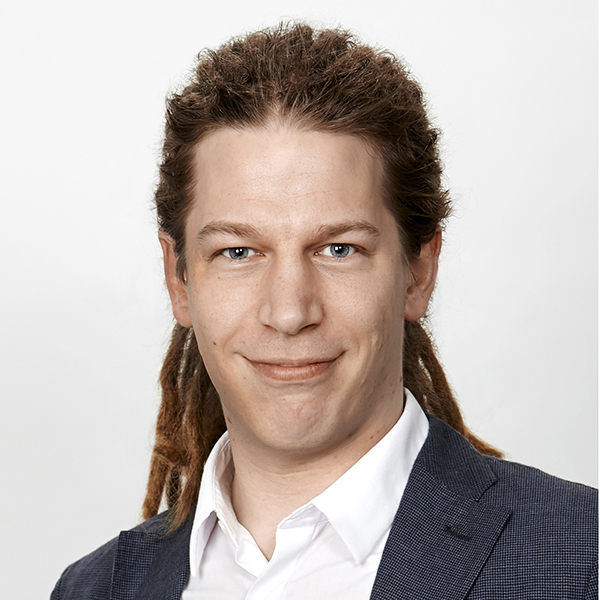
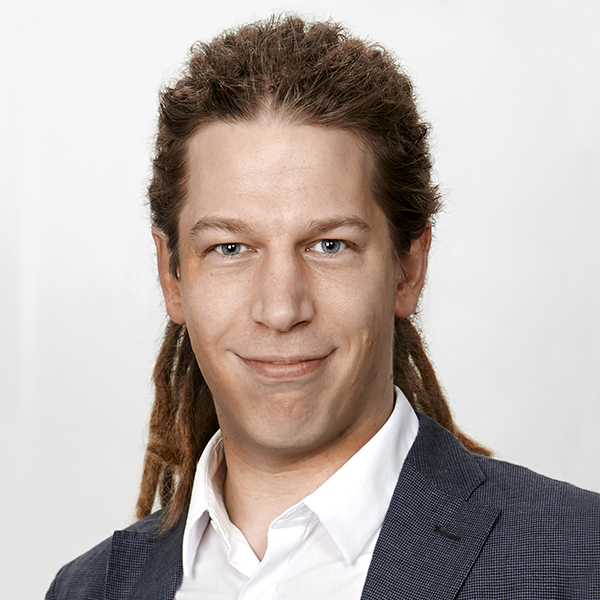
overhaul of index and research section. fixed broken links to GSC, updated profile picture, updated CV.

diff --git a/research.html b/research.html
@@ -85,45 +85,63 @@
 
         <div class="row">
 	        
-
+		
+				<br/>
+				<br/>
             <div class="col-xs-12 col-sm-12 col-md-12 col-lg-12 text-left">		
 		        <h4>Trail clearing behaviour in <em>Atta </em>leaf-cutter ants</h4>
 			
 			<p>
 				
 			        <img class="inline-image" src="img/attatrails.jpg" />
-			        Leaf-cutter ants, unlike most other ant species, construct cleared foraging trails: they remove all undergrowth and flatten the underlying soil. While this requires a considerable amount of time and energetic investment, workers gain increased movement and resource transport speed. 
+			        Leaf-cutter ants, unlike most other ant species, construct cleared foraging trails: they remove all undergrowth and flatten the underlying soil.
+                    Much like on human roads, movement on such trails is significantly faster. 
+				<br/>
+				<br/>
+                The resulting trail networks span several kilometers, and many kilograms of leaf litter are removed off the trails. The construction of these trails takes approximately 11,000 ant-hours worth of work.
+                Considering the enormous dimensions of their trails and the high associated costs, is the benefit of having these trails really worth the effort? It turns out, it is:
+                by combining ecological and physiological data into a computational model, we showed that trails <a target="_blank" href="https://link.springer.com/article/10.1007%2Fs00265-016-2237-5">provide energetic benefits</a>. 
+                We further investigated what part of the colony should contribute to the construction process to ensure that the costs do not outweigh the benefits, and what other aspects might influence the cost/benefit balance. 
+				<br/>
+				<br/>
+                Many thousand ants collaborate in the construction process. 
+                Comparable large-scale collective behaviour is often controlled via the deposition of information in the environment (i.e., stigmergy):
+                for example, ants use pheromone trails to recruit workers to food locations.
+                But if such processes are involved in the trail construction, or what other mechanisms might control the building behaviour, is unknown. 
+                To investigate the underlying mechanism we conducted experiments in which we triggered trail clearing behaviour. 
+                We extracted behavioural data from the experiment recordings using machine learning and image processing techniques.
+                With this data we constructed a model that makes assumptions about the behaviour of individual ants and tests how well different model assumptions recreate the behaviour we see in our experiments. 
+                It turns out that no information transfer is required to control the many individuals that build the trails.
+                However, we find that there is a previously unknown regulatory mechanism involved. 
+                The publication of our findings is pending, and more will be written here once the publication has been accepted.
+                <br/>
+				<br/>
+				I recently had a chat with ABC Science Show's host Robyn Williams about the leaf-cutter highways, which you can <a target="_blank" href="http://www.abc.net.au/radionational/programs/scienceshow/leaf-cutter-ants-–-the-ultimate-egalitarian-workforce/8731090">find here</a>. 
+                <br/>
+		        <br/>
 				
-			        <br/><br/>
-				In the field, some trails remain uncleared. How is the decision for trail clearing made? What individual behaviour leads to the colony-level phenomenon of cleared trails?
-				<br/><br/>
-				In my PhD project, I investigated the energetics, control mechanism, and evolutionary trajectory of the trail clearing behaviour.
-
-				I used image processing and recognition methods to extract data from experiment recordings, and built systemic and agent-based models of the trail clearing behaviour.
-				<br/>
-				One already published finding is that these trails can indeed <a target="_blank" href="https://link.springer.com/article/10.1007%2Fs00265-016-2237-5">provide energetic benefits</a> and therefore increase a clearing colony's fitness, but that this is dependent on size of clearing workforce and levels of obstruction in the environment.
-				<br/>
-				More content to follow as results are published. For some additional coverage visit <a target="_blank" href="http://www.infotech.monash.edu.au/about/news/archive/2014/stri-tom-bochynek.html"> Monash Faculty of Information Technology</a>. 
-
-				<br/>				<br/>
 
 				</p>
-            </div><!-- /.col-md-10 --><!-- /.container -->
+                </div><!-- /.col-md-10 --><!-- /.container -->
 
-			<div class="col-xs-12 col-sm-12 col-md-12 col-lg-12 text-left">
+	    		<div class="col-xs-12 col-sm-12 col-md-12 col-lg-12 text-left">
 
                 <h4>Collective nest construction and chain formation in the weaver ant <em>Oecophylla smaragdina</em></h4>
                 <p>
 	                <img class="inline-image" src="img/oecophylla-2.jpg" />
-	                Weaver ants are an arboreal ant species living in nests made up from living leaves. Construction of these nests requires the coordinated effort of a large workforce, to fold and then weave leaves into shape.
+	                Weaver ants are an arboreal ant species living in nests made up from living leaves. 
+                    Construction of these nests requires the coordinated effort of a large workforce to fold and then (using the silk of their larvae) weave leaves into the desired shape. 
+                    During the folding process ants assemble into pulling chains that allow them to focus the force of many ants on a single point on the leaf perimeter.
 	                <br/><br/>
-	                Without a blueprint, knowledge of the entire environment, or sophisticated communication, how do individuals collectively make a decision for a new nest site? And what are the dynamics of leaf folding?
-			<br/><br/>
-	                We find that shape and flexibility are the key criteria for the selection of a suitable nest substrate. Workers persist longer in attempts to roll tips of leaves, and a larger workforce aggregates there over time.
-
+                    How do individual ants select a single leaf in a tree canopy from which they start the nest construction? 
+                    And how do additional workers decide to join in the effort, and to form pulling chains? 
+		        	<br/><br/>
+	                In laboratory experiments we gave ants artificial leaves made from paper, and observed how ant colonies used them to construct simple nests.
+                    We find that shape and flexibility are the key criteria for the selection of a suitable nest substrate: sturdier leaves are not used for construction, but softer leaves are; on those, the flexible tip is preferentially chosen by the first pulling ant.
+                    Subsequent ants will join in with the first, but are more likely to leave the chains if the pulling effort makes no progress.
 	                <br/><br/>
-	                Results of my Master's thesis are <a target="_blank" href="http://journals.plos.org/plosone/article?id=10.1371/journal.pone.0095112"> published here</a>; a video illustrating nest construction dynamics can be
-            found <a target="_blank" href="http://figshare.com/articles/Physical_and_Biological_Determinants_of_Collective_Behavioural_Dynamics_in_Complex_Systems_Pulling_Chain_Formation_in_the_Nest_Weaving_Ant_Oecophylla_smaragdina_/1005746">here</a>.
+	                Results of this research are <a target="_blank" href="http://journals.plos.org/plosone/article?id=10.1371/journal.pone.0095112"> published here</a>; a video illustrating nest construction dynamics can be
+            <a target="_blank" href="http://figshare.com/articles/Physical_and_Biological_Determinants_of_Collective_Behavioural_Dynamics_in_Complex_Systems_Pulling_Chain_Formation_in_the_Nest_Weaving_Ant_Oecophylla_smaragdina_/1005746">found here</a>.
                 </p>
                 
             

diff --git a/index.html b/index.html
@@ -73,6 +73,8 @@
     	<div class="row">
 	    <div class="col-xs-3 col-sm-3 col-md-3 col-lg-3 center top-spacing bottom-spacing">		     		        		        
 
+                    <br/>
+                    <br/>
 	            <img class="img-circle" height="auto" src="img/profile2square.jpg" width="100%">
 
 	    </div>			
@@ -82,10 +84,29 @@
             <div class="col-xs-12 col-sm-12 col-md-12 col-lg-12 text-left">		
 		        <p>
 
-			    	I am a computational biologist interested in understanding complex biological systems via experiments and the modeling of biological and evolutionary processes. In particular I am interested in the behaviour of groups, either in biology (particularly in the social insects) or in robots.  
+                    <br/>
+                    <br/>
+                    I am a computational biologist interested in understanding complex systems.
+                    Such systems consist of many indivdual elements, but as a group show a level of complexity that is "larger than the sum of their parts". 
+                    
+                    <br/>
+                    <br/>
+                    In the biological domain, social insects are one of the most impressive examples of such complex systems, but my research interest extend to the field of swarm robotics in which some of the biological concepts are applied. 
+                    In particular, I am interested in self-assembly into functional structures and the collective construction of structures and transport infrastructure.
+
+                    <br/>
+                    <br/>
+                    The toolkit I draw from to answer these questions comprises image processing, machine learning, evolutionary simulations, agent-based and system-level models, and information theory methods.
+
+                    <br/>
+                    <br/>
+            
+
+			    	<!--I am a computational biologist interested in understanding complex biological systems via experiments and the modeling of biological and evolutionary processes. In particular I am interested in the behaviour of groups, either in biology (particularly in the social insects) or in robots.  
                     <p> 
                     Currently I am a postdoctoral researcher at Northwestern University's McCormick School of Engineering, where I investigate biological behaviour as a model for swarm robotics.
                     During previous research, I investigated collective construction of infrastructure in leafcutter ants (which form the largest transport networks in nature) and the self-assembly of weaver ants into pulling chains during their nest construction.
+                    -->
 
                     <!--and their interplay with ecology and evolution. I recently completed my PhD with Prof. Bernd Meyer and A/Prof. Martin Burd at the Monash University Faculty of Information Technology and CSIRO|Data61. In my PhD project I combined biological experiments, automated data extraction and analysis, and modelling of behavioural and evolutionary dynamics.
                  
@@ -95,7 +116,7 @@
 				    <br><br>
   --!>
 
-                    For more information on my work, visit the <a href="research.html">Research</a> section.
+                    For information on my already published work, please visit the <a href="research.html">Research</a> section.
 
 				</p>
             </div><!-- /.col-md-10 --><!-- /.container -->

diff --git a/publications.html b/publications.html
@@ -79,11 +79,11 @@
             <div class="col-xs-12 col-sm-12 col-md-12 col-lg-12 text-left">		
 		        <p>		        
 				<br>
-				For an up-to-date list of journal articles, please visit <a target="_blank" href="https://scholar.google.com/citations?user=1_ZYCNgAAAAJ&hl=en&oi=ao">Google Scholar</a>.
+				For an up-to-date list of journal articles, please visit <a target="_blank" href="https://scholar.google.com.au/citations?user=zWxV6LMAAAAJ&hl=en">Google Scholar</a>.
 				
 				<div style="float: left; width: 100%;">
 					<ol>
-					<li><b>Bochynek, T.</b>, Tanner, J., Meyer, B., and Burd, M. (in press) - Parallel foraging cycles for different resources in leaf-cutting ants: a clue to the mechanisms of rhythmic activity. Ecological Entomology</li>
+					<li><b>Bochynek, T.</b>, Tanner, J., Meyer, B., and Burd, M. (2017) - Parallel foraging cycles for different resources in leaf-cutting ants: a clue to the mechanisms of rhythmic activity. Ecological Entomology</li>
 					<li><b>Bochynek, T.</b>, Meyer, B., and Burd, M. (2017) - Energetics of trail clearing in the leaf-cutter ant Atta. Behavioral Ecology and Sociobiology</li>
 					<li><b>Bochynek, T.</b> and Robson, S. K. A. (2014) - Physical and Biological Determinants of Collective Behavioural Dynamics in Complex Systems: Pulling Chain Formation in the Nest-Weaving Ant <em>Oecophylla smaragdina</em>.</li>
 					<li>Shmanina, T., Zukerman, I., Cheam, A. L., <b>Bochynek, T.</b>, Cavedon, L. (2016) - Corpus of Tables in Full-Text Biomedical Research Publications. Conference on Computational Linguistics 2016</li>

diff --git a/contact.html b/contact.html
@@ -84,7 +84,7 @@
 					<strong>Thomas Bochynek</strong><br/>
                     Northwestern University<br/>
                     EECS Department<br/>
-                    2145 Sheridan Road, Tech L359<br/>
+                    Mudd Hall, 2233 Tech Drive, Room 3120 <br/>
                     Evanston, IL 60208
 					<br/><br/>
 					Mail: Tom.Bochynek AT gmail DOT com
